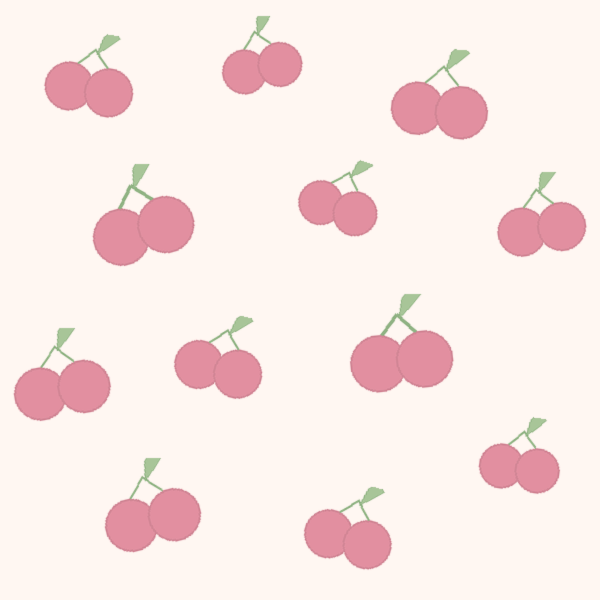
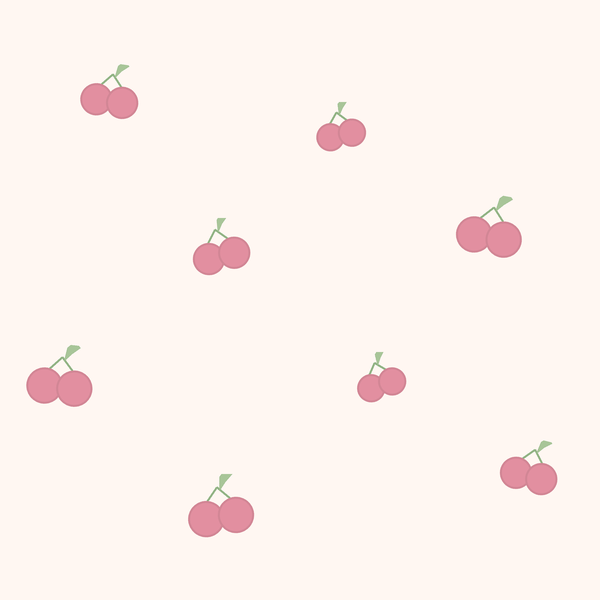
feat: tum sayfalara kiraz arka plan + cozunurluk fix
- Pattern v4: 600x600 tile, 8 kiraz, 4x oversampled (LANCZOS anti-aliasing)
- CherryBackdrop shared widget — tum sayfalarda tek kaynak
- 10 ekran update: intro, home, daily_note, love_reasons, memories, memory_detail,
  surprise_boxes, surprise_box_detail, miss_me, countdown, settings
- HomeScreen _defaultPattern artik CherryBackdrop kullaniyor

diff --git a/lib/features/daily_note/daily_note_screen.dart b/lib/features/daily_note/daily_note_screen.dart
@@ -6,6 +6,7 @@ import '../../core/utils/app_date_utils.dart';
 import '../../data/models/daily_note.dart';
 import '../../data/services/local_json_service.dart';
 import '../../shared/widgets/animated_fade_slide.dart';
+import '../../shared/widgets/cherry_backdrop.dart';
 import '../../shared/widgets/page_header.dart';
 import '../../shared/widgets/soft_card.dart';
 
@@ -37,36 +38,38 @@ class _DailyNoteScreenState extends State<DailyNoteScreen> {
   Widget build(BuildContext context) {
     return Scaffold(
       backgroundColor: AppColors.background,
-      body: SafeArea(
-        child: Column(
-          children: [
-            const PageHeader(
-              title: 'Bugünün Notu',
-              subtitle: 'Sana özel, sadece bugüne.',
-            ),
-            Expanded(
-              child: FutureBuilder<DailyNote?>(
-                future: _futureNote,
-                builder: (context, snapshot) {
-                  if (snapshot.connectionState == ConnectionState.waiting) {
-                    return const Center(
-                      child: CircularProgressIndicator(
-                        color: AppColors.primary,
-                      ),
-                    );
-                  }
-                  if (snapshot.hasError || snapshot.data == null) {
-                    return _EmptyState(
-                      message: snapshot.hasError
-                          ? 'Bugünün notu yüklenemedi.'
-                          : 'Henüz bir not eklenmedi.',
-                    );
-                  }
-                  return _NoteContent(note: snapshot.data!);
-                },
+      body: CherryBackdrop(
+        child: SafeArea(
+          child: Column(
+            children: [
+              const PageHeader(
+                title: 'Bugünün Notu',
+                subtitle: 'Sana özel, sadece bugüne.',
               ),
-            ),
-          ],
+              Expanded(
+                child: FutureBuilder<DailyNote?>(
+                  future: _futureNote,
+                  builder: (context, snapshot) {
+                    if (snapshot.connectionState == ConnectionState.waiting) {
+                      return const Center(
+                        child: CircularProgressIndicator(
+                          color: AppColors.primary,
+                        ),
+                      );
+                    }
+                    if (snapshot.hasError || snapshot.data == null) {
+                      return _EmptyState(
+                        message: snapshot.hasError
+                            ? 'Bugünün notu yüklenemedi.'
+                            : 'Henüz bir not eklenmedi.',
+                      );
+                    }
+                    return _NoteContent(note: snapshot.data!);
+                  },
+                ),
+              ),
+            ],
+          ),
         ),
       ),
     );

diff --git a/lib/shared/widgets/cherry_backdrop.dart b/lib/shared/widgets/cherry_backdrop.dart
@@ -1,0 +1,26 @@
+import 'package:flutter/material.dart';
+
+import '../../core/theme/app_colors.dart';
+
+/// Tum sayfalarda kullanilacak ortak kiraz dokulu arka plan.
+/// Tile (ImageRepeat.repeat) ile her cihazda ayni boyutta gorunur.
+class CherryBackdrop extends StatelessWidget {
+  const CherryBackdrop({super.key, required this.child});
+
+  final Widget child;
+
+  @override
+  Widget build(BuildContext context) {
+    return Container(
+      decoration: const BoxDecoration(
+        color: AppColors.background,
+        image: DecorationImage(
+          image: AssetImage('assets/images/decorations/home_pattern.png'),
+          repeat: ImageRepeat.repeat,
+          alignment: Alignment.topLeft,
+        ),
+      ),
+      child: child,
+    );
+  }
+}

diff --git a/lib/features/love_reasons/love_reasons_screen.dart b/lib/features/love_reasons/love_reasons_screen.dart
@@ -7,6 +7,7 @@ import '../../core/theme/app_text_styles.dart';
 import '../../data/models/love_reason.dart';
 import '../../data/services/local_json_service.dart';
 import '../../data/services/preferences_service.dart';
+import '../../shared/widgets/cherry_backdrop.dart';
 import '../../shared/widgets/page_header.dart';
 import '../../shared/widgets/primary_button.dart';
 import 'widgets/love_reason_card.dart';
@@ -82,15 +83,17 @@ class _LoveReasonsScreenState extends State<LoveReasonsScreen> {
   Widget build(BuildContext context) {
     return Scaffold(
       backgroundColor: AppColors.background,
-      body: SafeArea(
-        child: Column(
-          children: [
-            const PageHeader(
-              title: 'Seni Sevme Sebeplerim',
-              subtitle: 'Bir buton, bir sebep.',
-            ),
-            Expanded(child: _buildBody()),
-          ],
+      body: CherryBackdrop(
+        child: SafeArea(
+          child: Column(
+            children: [
+              const PageHeader(
+                title: 'Seni Sevme Sebeplerim',
+                subtitle: 'Bir buton, bir sebep.',
+              ),
+              Expanded(child: _buildBody()),
+            ],
+          ),
         ),
       ),
     );

diff --git a/lib/features/memories/memories_screen.dart b/lib/features/memories/memories_screen.dart
@@ -4,6 +4,7 @@ import '../../core/theme/app_colors.dart';
 import '../../core/theme/app_text_styles.dart';
 import '../../data/models/memory_item.dart';
 import '../../data/services/local_json_service.dart';
+import '../../shared/widgets/cherry_backdrop.dart';
 import '../../shared/widgets/page_header.dart';
 import 'memory_detail_screen.dart';
 import 'widgets/memory_card.dart';
@@ -37,13 +38,14 @@ class _MemoriesScreenState extends State<MemoriesScreen> {
   Widget build(BuildContext context) {
     return Scaffold(
       backgroundColor: AppColors.background,
-      body: SafeArea(
-        child: Column(
-          children: [
-            const PageHeader(
-              title: 'Anılarımız',
-              subtitle: 'Birlikte topladıklarımız.',
-            ),
+      body: CherryBackdrop(
+        child: SafeArea(
+          child: Column(
+            children: [
+              const PageHeader(
+                title: 'Anılarımız',
+                subtitle: 'Birlikte topladıklarımız.',
+              ),
             Expanded(
               child: FutureBuilder<List<MemoryItem>>(
                 future: _future,
@@ -92,6 +94,7 @@ class _MemoriesScreenState extends State<MemoriesScreen> {
             ),
           ],
         ),
+      ),
       ),
     );
   }

diff --git a/lib/features/countdown/countdown_screen.dart b/lib/features/countdown/countdown_screen.dart
@@ -8,6 +8,7 @@ import '../../core/utils/app_date_utils.dart';
 import '../../data/models/app_config.dart';
 import '../../data/services/local_json_service.dart';
 import '../../shared/widgets/animated_fade_slide.dart';
+import '../../shared/widgets/cherry_backdrop.dart';
 import '../../shared/widgets/page_header.dart';
 import '../../shared/widgets/soft_card.dart';
 
@@ -62,12 +63,14 @@ class _CountdownScreenState extends State<CountdownScreen> {
   Widget build(BuildContext context) {
     return Scaffold(
       backgroundColor: AppColors.background,
-      body: SafeArea(
-        child: Column(
-          children: [
-            const PageHeader(title: 'Geri Sayım'),
-            Expanded(child: _buildBody()),
-          ],
+      body: CherryBackdrop(
+        child: SafeArea(
+          child: Column(
+            children: [
+              const PageHeader(title: 'Geri Sayım'),
+              Expanded(child: _buildBody()),
+            ],
+          ),
         ),
       ),
     );

diff --git a/lib/features/home/home_screen.dart b/lib/features/home/home_screen.dart
@@ -7,6 +7,7 @@ import '../../core/theme/app_text_styles.dart';
 import '../../data/models/app_config.dart';
 import '../../data/services/preferences_service.dart';
 import '../../shared/widgets/animated_fade_slide.dart';
+import '../../shared/widgets/cherry_backdrop.dart';
 import '../../shared/widgets/soft_card.dart';
 import '../countdown/countdown_screen.dart';
 import '../daily_note/daily_note_screen.dart';
@@ -227,16 +228,7 @@ class _HomeScreenState extends State<HomeScreen> {
   }
 
   Widget _defaultPattern() {
-    return Container(
-      decoration: const BoxDecoration(
-        color: AppColors.background,
-        image: DecorationImage(
-          image: AssetImage('assets/images/decorations/home_pattern.png'),
-          repeat: ImageRepeat.repeat,
-          alignment: Alignment.topLeft,
-        ),
-      ),
-    );
+    return const CherryBackdrop(child: SizedBox.expand());
   }
 }
 

diff --git a/lib/features/intro/intro_screen.dart b/lib/features/intro/intro_screen.dart
@@ -5,6 +5,7 @@ import '../../core/theme/app_text_styles.dart';
 import '../../data/models/app_config.dart';
 import '../../data/services/preferences_service.dart';
 import '../../shared/widgets/animated_fade_slide.dart';
+import '../../shared/widgets/cherry_backdrop.dart';
 import '../../shared/widgets/primary_button.dart';
 import '../home/home_screen.dart';
 
@@ -32,7 +33,8 @@ class IntroScreen extends StatelessWidget {
   Widget build(BuildContext context) {
     return Scaffold(
       backgroundColor: AppColors.background,
-      body: SafeArea(
+      body: CherryBackdrop(
+        child: SafeArea(
         child: Center(
           child: ConstrainedBox(
             constraints: const BoxConstraints(maxWidth: 560),
@@ -75,6 +77,7 @@ class IntroScreen extends StatelessWidget {
             ),
           ),
         ),
+      ),
       ),
     );
   }

diff --git a/lib/features/memories/memory_detail_screen.dart b/lib/features/memories/memory_detail_screen.dart
@@ -4,6 +4,7 @@ import '../../core/theme/app_colors.dart';
 import '../../core/theme/app_text_styles.dart';
 import '../../data/models/memory_item.dart';
 import '../../shared/widgets/animated_fade_slide.dart';
+import '../../shared/widgets/cherry_backdrop.dart';
 import '../../shared/widgets/page_header.dart';
 
 class MemoryDetailScreen extends StatelessWidget {
@@ -15,7 +16,8 @@ class MemoryDetailScreen extends StatelessWidget {
   Widget build(BuildContext context) {
     return Scaffold(
       backgroundColor: AppColors.background,
-      body: SafeArea(
+      body: CherryBackdrop(
+        child: SafeArea(
         child: CustomScrollView(
           slivers: [
             SliverToBoxAdapter(
@@ -70,6 +72,7 @@ class MemoryDetailScreen extends StatelessWidget {
             ),
           ],
         ),
+      ),
       ),
     );
   }

diff --git a/lib/features/miss_me/miss_me_screen.dart b/lib/features/miss_me/miss_me_screen.dart
@@ -5,6 +5,7 @@ import '../../core/theme/app_text_styles.dart';
 import '../../data/models/miss_me_message.dart';
 import '../../data/services/local_json_service.dart';
 import '../../shared/widgets/animated_fade_slide.dart';
+import '../../shared/widgets/cherry_backdrop.dart';
 import '../../shared/widgets/page_header.dart';
 import '../../shared/widgets/soft_card.dart';
 import 'widgets/miss_me_card.dart';
@@ -49,7 +50,8 @@ class _MissMeScreenState extends State<MissMeScreen> {
   Widget build(BuildContext context) {
     return Scaffold(
       backgroundColor: AppColors.background,
-      body: SafeArea(
+      body: CherryBackdrop(
+        child: SafeArea(
         child: Column(
           children: [
             const PageHeader(
@@ -109,6 +111,7 @@ class _MissMeScreenState extends State<MissMeScreen> {
             ),
           ],
         ),
+      ),
       ),
     );
   }

diff --git a/lib/features/settings/settings_screen.dart b/lib/features/settings/settings_screen.dart
@@ -7,6 +7,7 @@ import '../../data/models/app_config.dart';
 import '../../data/services/background_service.dart';
 import '../../data/services/local_json_service.dart';
 import '../../data/services/preferences_service.dart';
+import '../../shared/widgets/cherry_backdrop.dart';
 import '../../shared/widgets/page_header.dart';
 import '../../shared/widgets/soft_card.dart';
 import '../intro/intro_screen.dart';
@@ -115,7 +116,8 @@ class _SettingsScreenState extends State<SettingsScreen> {
 
     return Scaffold(
       backgroundColor: AppColors.background,
-      body: SafeArea(
+      body: CherryBackdrop(
+        child: SafeArea(
         child: Column(
           children: [
             const PageHeader(title: 'Ayarlar'),
@@ -221,6 +223,7 @@ class _SettingsScreenState extends State<SettingsScreen> {
             ),
           ],
         ),
+      ),
       ),
     );
   }

diff --git a/lib/features/surprise_boxes/surprise_box_detail_screen.dart b/lib/features/surprise_boxes/surprise_box_detail_screen.dart
@@ -4,6 +4,7 @@ import '../../core/theme/app_colors.dart';
 import '../../core/theme/app_text_styles.dart';
 import '../../data/models/surprise_box.dart';
 import '../../shared/widgets/animated_fade_slide.dart';
+import '../../shared/widgets/cherry_backdrop.dart';
 import '../../shared/widgets/page_header.dart';
 import '../../shared/widgets/soft_card.dart';
 
@@ -16,7 +17,8 @@ class SurpriseBoxDetailScreen extends StatelessWidget {
   Widget build(BuildContext context) {
     return Scaffold(
       backgroundColor: AppColors.background,
-      body: SafeArea(
+      body: CherryBackdrop(
+        child: SafeArea(
         child: Column(
           children: [
             PageHeader(title: box.title, subtitle: box.subtitle),
@@ -56,6 +58,7 @@ class SurpriseBoxDetailScreen extends StatelessWidget {
             ),
           ],
         ),
+      ),
       ),
     );
   }

diff --git a/lib/features/surprise_boxes/surprise_boxes_screen.dart b/lib/features/surprise_boxes/surprise_boxes_screen.dart
@@ -4,6 +4,7 @@ import '../../core/theme/app_colors.dart';
 import '../../core/theme/app_text_styles.dart';
 import '../../data/models/surprise_box.dart';
 import '../../data/services/local_json_service.dart';
+import '../../shared/widgets/cherry_backdrop.dart';
 import '../../shared/widgets/page_header.dart';
 import 'surprise_box_detail_screen.dart';
 import 'widgets/surprise_box_card.dart';
@@ -77,7 +78,8 @@ class _SurpriseBoxesScreenState extends State<SurpriseBoxesScreen> {
   Widget build(BuildContext context) {
     return Scaffold(
       backgroundColor: AppColors.background,
-      body: SafeArea(
+      body: CherryBackdrop(
+        child: SafeArea(
         child: Column(
           children: [
             const PageHeader(
@@ -128,6 +130,7 @@ class _SurpriseBoxesScreenState extends State<SurpriseBoxesScreen> {
             ),
           ],
         ),
+      ),
       ),
     );
   }